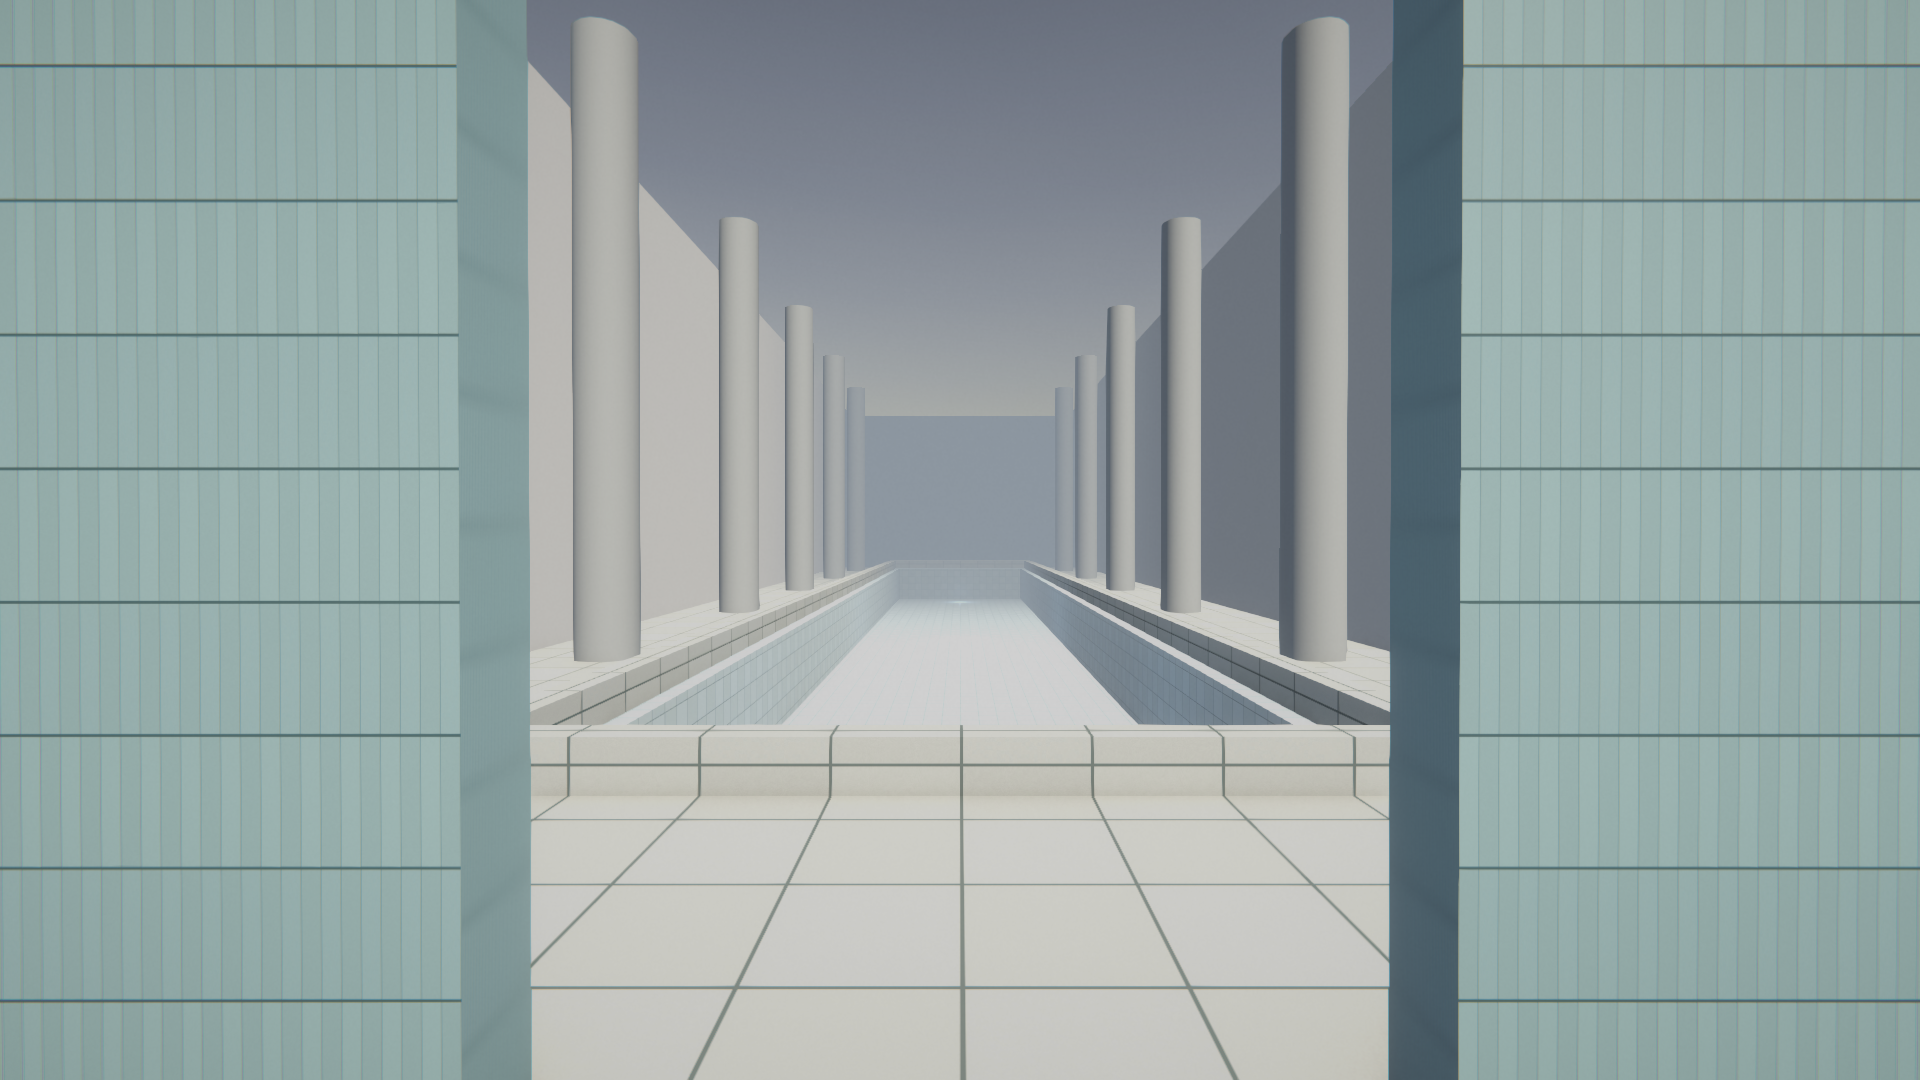
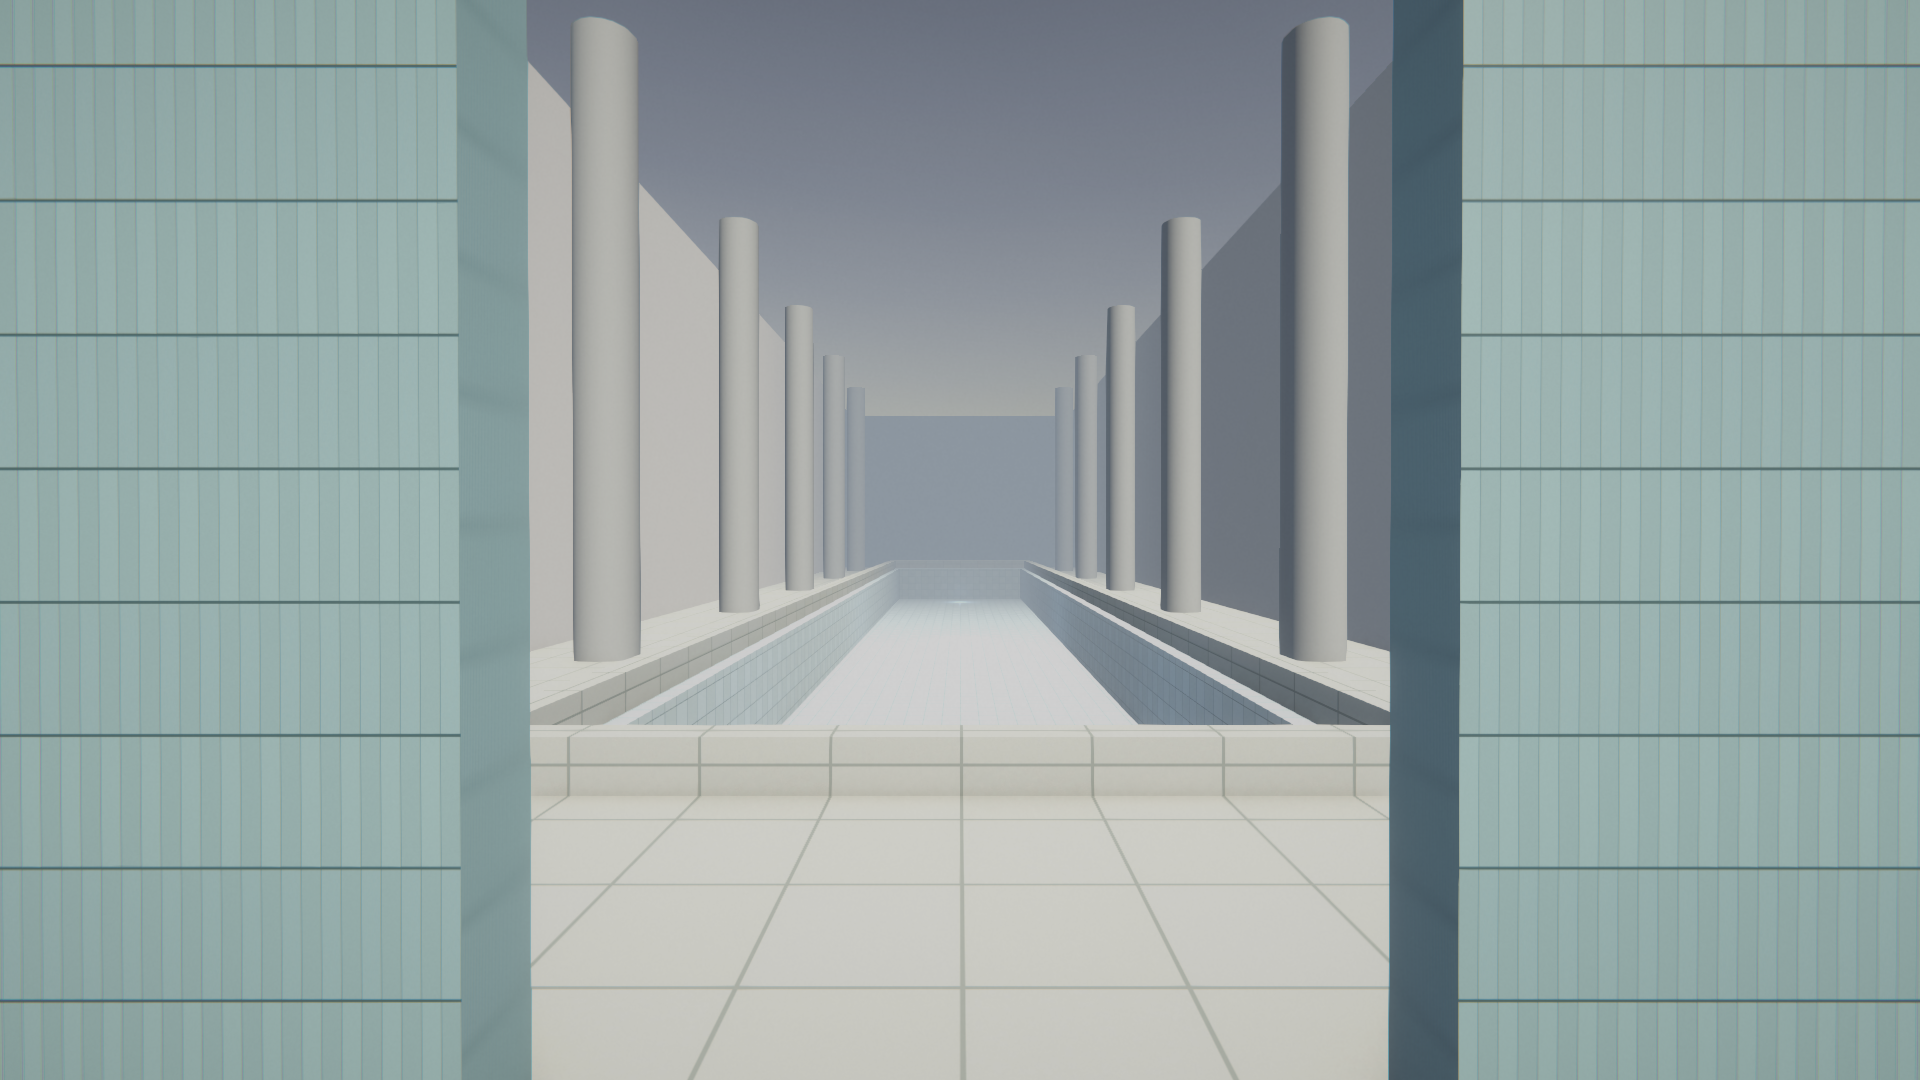
feat: Visual Polish 조정 1 - 발광 구체 톤다운, 데크 줄눈 옅게
- Env_GlowOrb: base (0.30,0.50,0.66), emission x1.5, smoothness 0.35
- Env_Court_Deck: 데크 전용 tile_deck_soft.png(줄눈 55% 완화), 수영장 안쪽은 원본 유지
- 조정 후 캡처와 직전 상태 캡처(before_tweak1) 추가

diff --git a/Assets/Editor/VisualPolishTweak1.cs b/Assets/Editor/VisualPolishTweak1.cs
@@ -1,0 +1,88 @@
+using System.IO;
+using UnityEditor;
+using UnityEngine;
+
+// Visual Polish 후속 조정 1 — 플레이 피드백 반영.
+//   (a) 발광 구체가 흰 공처럼 보임 → 베이스 색을 어둡게, 에미션 세기를 낮춰 Bloom이 은은하게 번지게.
+//   (b) 데크 타일 줄눈이 너무 진함 → 데크 전용 "옅은 줄눈" 텍스처(tile_deck_soft.png)를 만들어 교체.
+//       원본 tile_pool.png는 수영장 안쪽용으로 그대로 둔다.
+// 멱등. 실행: [DEPTH 5m > Visual Polish > Apply Tweak 1 (Orb + Deck Grout)]
+public static class VisualPolishTweak1
+{
+    const string OrbMatPath = "Assets/Materials/Env/Env_GlowOrb.mat";
+    const string DeckMatPath = "Assets/Materials/Env/Env_Court_Deck.mat";
+    const string TilePath = "Assets/Textures/Env/tile_pool.png";
+    const string SoftTilePath = "Assets/Textures/Env/tile_deck_soft.png";
+
+    // 발광 구체: 이전 base(0.65,0.85,1) emission x2.2 → 흰색으로 클리핑됨.
+    static readonly Color OrbBase = new Color(0.30f, 0.50f, 0.66f);
+    static readonly Color OrbEmission = new Color(0.30f, 0.62f, 1.0f);
+    const float OrbEmissionIntensity = 1.5f;
+
+    // 줄눈 옅게: 픽셀을 평균 밝기 쪽으로 이 비율만큼 당긴다(0=원본, 1=줄눈 완전 제거).
+    const float GroutSoften = 0.55f;
+
+    [MenuItem("DEPTH 5m/Visual Polish/Apply Tweak 1 (Orb + Deck Grout)")]
+    public static void Apply()
+    {
+        TweakOrb();
+        TweakDeck();
+        AssetDatabase.SaveAssets();
+        Debug.Log("[VisualPolish] 조정 1 적용: 발광 구체 + 데크 줄눈.");
+    }
+
+    public static void ApplyBatch()
+    {
+        try { Apply(); }
+        catch (System.Exception e) { Debug.LogError("[VisualPolish] 조정 1 실패: " + e); EditorApplication.Exit(1); }
+    }
+
+    static void TweakOrb()
+    {
+        var m = AssetDatabase.LoadAssetAtPath<Material>(OrbMatPath);
+        if (m == null) { Debug.LogWarning("[VisualPolish] Env_GlowOrb 없음"); return; }
+        m.SetColor("_BaseColor", OrbBase);
+        m.SetColor("_EmissionColor", OrbEmission * OrbEmissionIntensity);
+        if (m.HasProperty("_Smoothness")) m.SetFloat("_Smoothness", 0.35f);
+        m.EnableKeyword("_EMISSION");
+        EditorUtility.SetDirty(m);
+    }
+
+    static void TweakDeck()
+    {
+        var m = AssetDatabase.LoadAssetAtPath<Material>(DeckMatPath);
+        if (m == null) { Debug.LogWarning("[VisualPolish] Env_Court_Deck 없음"); return; }
+
+        if (!File.Exists(SoftTilePath)) BuildSoftTile();
+        var soft = AssetDatabase.LoadAssetAtPath<Texture2D>(SoftTilePath);
+        if (soft == null) { Debug.LogWarning("[VisualPolish] tile_deck_soft.png 생성 실패 — 데크 변경 생략"); return; }
+
+        m.SetTexture("_BaseMap", soft);
+        if (m.HasProperty("_MainTex")) m.SetTexture("_MainTex", soft);
+        EditorUtility.SetDirty(m);
+    }
+
+    static void BuildSoftTile()
+    {
+        // 원본 PNG 바이트를 직접 읽어 디코드한다(임포트 설정의 Read/Write 여부와 무관).
+        var src = new Texture2D(2, 2, TextureFormat.RGBA32, false);
+        src.LoadImage(File.ReadAllBytes(TilePath));
+        var px = src.GetPixels();
+
+        Color avg = Color.black;
+        foreach (var c in px) avg += c;
+        avg /= px.Length;
+
+        for (int i = 0; i < px.Length; i++)
+        {
+            var c = Color.Lerp(px[i], avg, GroutSoften);
+            c.a = 1f;
+            px[i] = c;
+        }
+        src.SetPixels(px);
+        src.Apply();
+        File.WriteAllBytes(SoftTilePath, src.EncodeToPNG());
+        Object.DestroyImmediate(src);
+        AssetDatabase.ImportAsset(SoftTilePath);
+    }
+}
